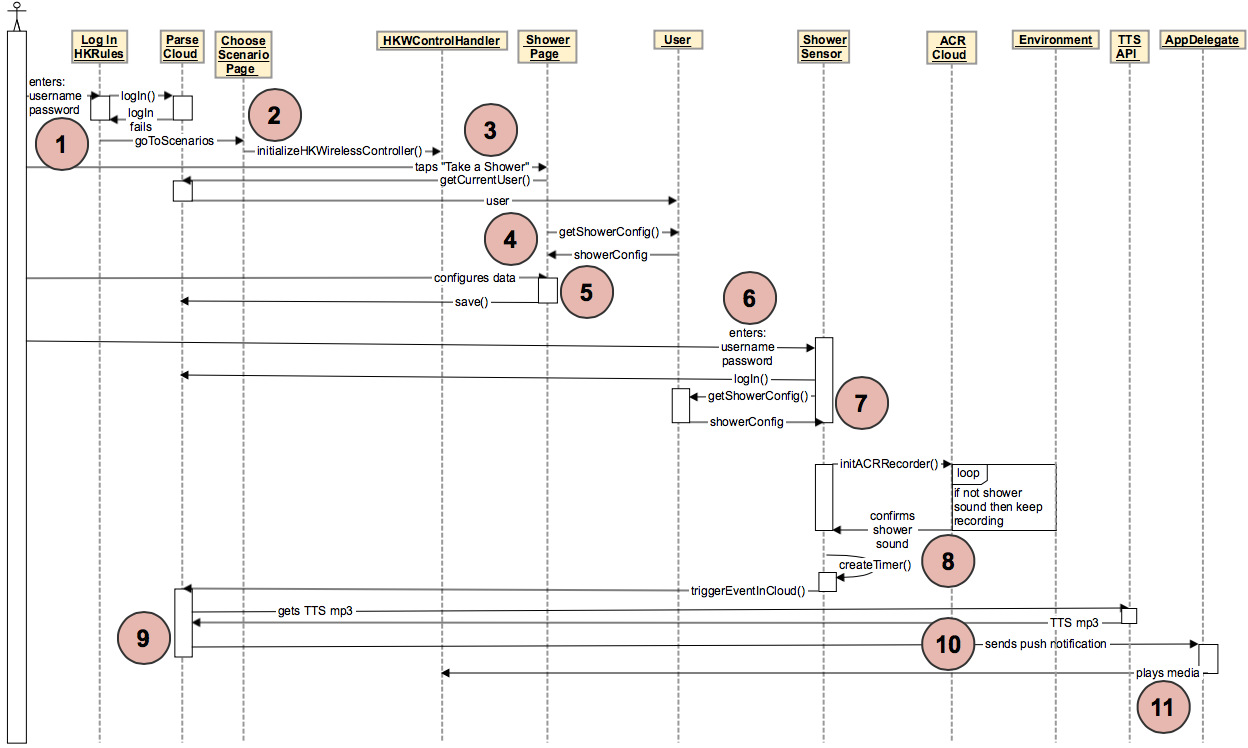
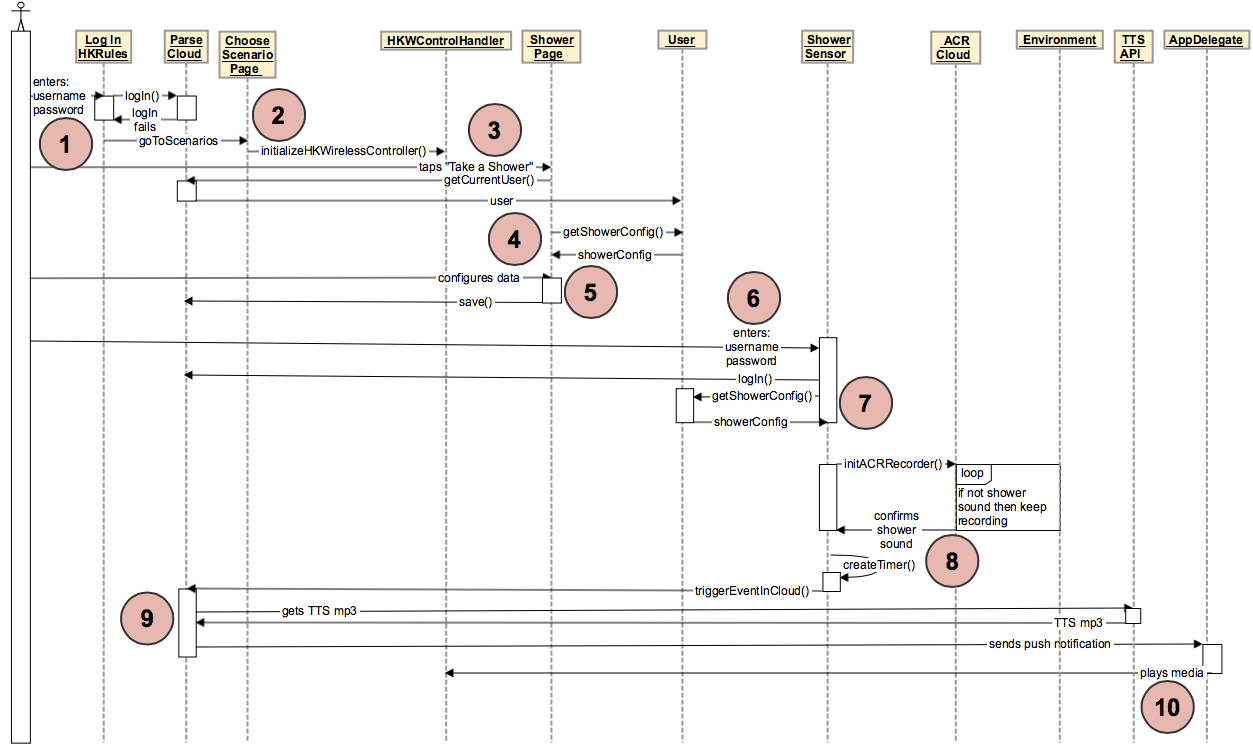
finished shower docs

diff --git a/docs/source/shower.rst b/docs/source/shower.rst
@@ -19,4 +19,6 @@ Shower Scenario
 
 8. The shower sensor begins listening to the environment, and sends a packet of sound data to the ACR Cloud for analysis. If the data resembles a shower sound, then the ACR Cloud sends back a positive response, which activates a timer on the shower sensor. The shower sensor keeps listening to the environment and sending data to ACR Cloud for analysis for the duration of the timer. If the shower sound is still playing before the timer runs out, the shower sensor sends an event to Parse which will trigger a shower alert.
 
-9. If Parse receives a notification from the shower sensor that the shower is running longer than the user had configured, it will send a push notification t
+9. If Parse receives a notification from the shower sensor that the shower is running longer than the user had configured, it will get TTS data from the TTS API and send a push notification to the HK Rules App on the user's iOS device.
+
+10. When the HK Rules AppDelegate receives the push notification from Parse, it will play an alert about the shower through the Harman speakers.
